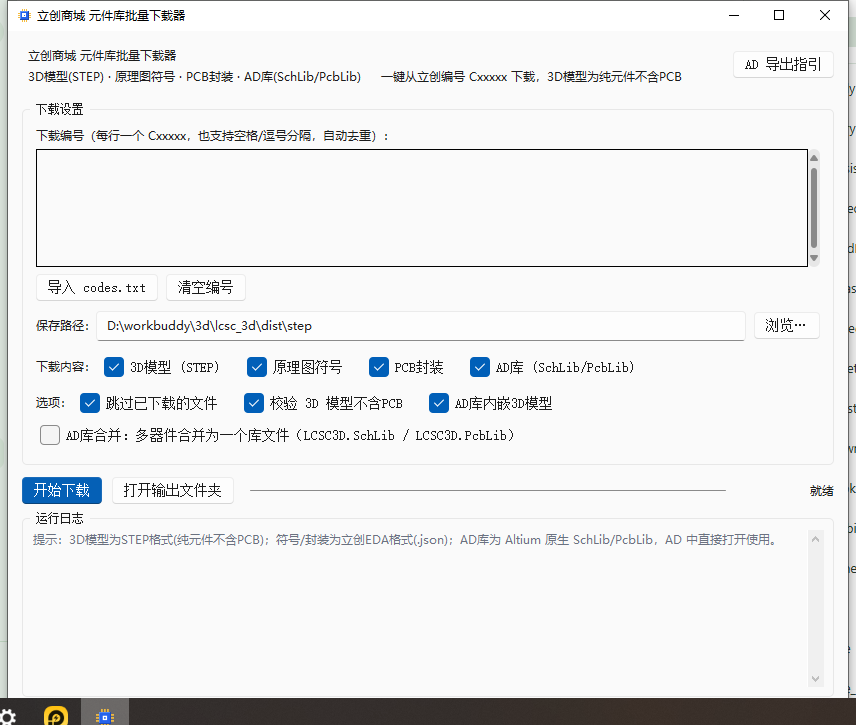
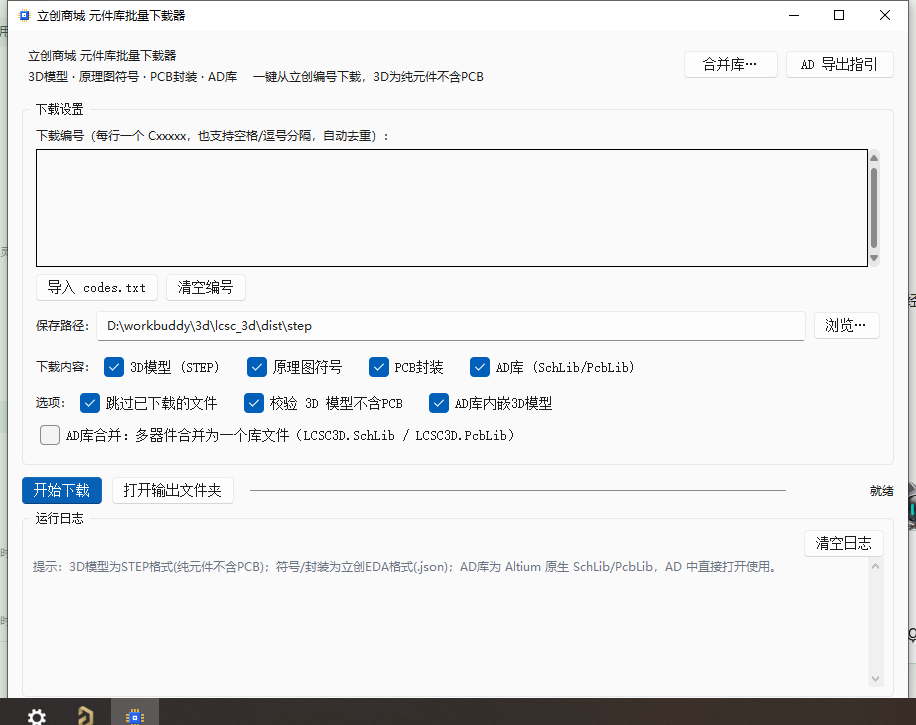
fix: 标题栏按钮被压缩 + 日志一键清空
- 标题区改 grid 布局(columnconfigure weight), 按钮列不再被副标题挤压
- 按钮文字精简(合并库…/AD 导出指引)并固定 width
- 窗口宽度 840->900, 副标题精简
- 新增「清空日志」按钮 + 每轮下载开始自动清空日志
- 冒烟测试 v8(日志清理) + 按钮完整性验证(多宽度), 打包版截图确认
- exe 洁净环境自测 7 项全 PASS

diff --git a/lcsc_3d_gui.py b/lcsc_3d_gui.py
@@ -432,7 +432,7 @@ class DownloaderApp:
     def _build(self):
         self.root.title(APP_TITLE)
         sw, sh = self.root.winfo_screenwidth(), self.root.winfo_screenheight()
-        w = min(840, sw - 40)
+        w = min(900, sw - 40)
         h = min(760, sh - 90)
         x = max(0, (sw - w) // 2)
         y = max(0, (sh - h) // 3)
@@ -451,13 +451,16 @@ class DownloaderApp:
         # ===== 标题区 =====
         header = ttk.Frame(self.root, padding=(20, 16, 14, 4))
         header.pack(fill="x")
+        header.columnconfigure(0, weight=1)   # 标题占剩余空间，按钮列不被压缩
         hleft = ttk.Frame(header)
-        hleft.pack(side="left", fill="x", expand=True)
+        hleft.grid(row=0, column=0, sticky="w")
         ttk.Label(hleft, text=APP_TITLE, style="Header.TLabel").pack(anchor="w")
-        ttk.Label(hleft, text="3D模型(STEP) · 原理图符号 · PCB封装 · AD库(SchLib/PcbLib)     一键从立创编号 Cxxxxx 下载，3D模型为纯元件不含PCB",
+        ttk.Label(hleft, text="3D模型 · 原理图符号 · PCB封装 · AD库    一键从立创编号下载，3D为纯元件不含PCB",
                   style="SubHeader.TLabel").pack(anchor="w", pady=(4, 2))
-        ttk.Button(header, text="AD 导出指引", command=self._show_ad_help).pack(side="right", anchor="ne", padx=(10, 0), pady=(4, 0))
-        ttk.Button(header, text="手动合并库…", command=self._show_merge_dialog).pack(side="right", anchor="ne", padx=(10, 0), pady=(4, 0))
+        ttk.Button(header, text="合并库…", width=10, command=self._show_merge_dialog).grid(
+            row=0, column=1, sticky="ne", padx=(10, 0), pady=(4, 0))
+        ttk.Button(header, text="AD 导出指引", width=12, command=self._show_ad_help).grid(
+            row=0, column=2, sticky="ne", padx=(8, 0), pady=(4, 0))
 
         # ===== 主体 =====
         body = ttk.Frame(self.root, padding=(14, 12, 14, 12))
@@ -536,11 +539,14 @@ class DownloaderApp:
         card2 = ttk.Labelframe(body, text=" 运行日志 ", padding=(10, 6, 10, 10))
         card2.grid(row=2, column=0, sticky="nsew")
         card2.columnconfigure(0, weight=1)
-        card2.rowconfigure(0, weight=1)
+        card2.rowconfigure(1, weight=1)
+        log_head = ttk.Frame(card2)
+        log_head.grid(row=0, column=0, sticky="e")
+        ttk.Button(log_head, text="清空日志", command=self._clear_log).pack(side="right")
         self.txt_log = scrolledtext.ScrolledText(card2, height=13, wrap="word", state="disabled",
                                                  relief="flat", bd=0, bg="white", fg=C_TEXT,
                                                  font=FONT)
-        self.txt_log.grid(row=0, column=0, sticky="nsew")
+        self.txt_log.grid(row=1, column=0, sticky="nsew")
         self.txt_log.tag_configure("ok", foreground=C_OK)
         self.txt_log.tag_configure("err", foreground=C_ERR)
         self.txt_log.tag_configure("warn", foreground=C_WARN)
@@ -552,6 +558,12 @@ class DownloaderApp:
                      "AD库为 Altium 原生 SchLib/PcbLib，AD 中直接打开使用。\n", "muted")
 
     # ---------- 交互 ----------
+    def _clear_log(self):
+        """清空运行日志（按钮或新一轮下载开始时调用）。"""
+        self.txt_log.config(state="normal")
+        self.txt_log.delete("1.0", "end")
+        self.txt_log.config(state="disabled")
+
     def _show_merge_dialog(self):
         if ad_export is None:
             messagebox.showerror("不可用", "内置转换模块不可用，无法使用库合并功能")
@@ -661,7 +673,8 @@ class DownloaderApp:
             return
         self._set_running(True)
         self.pbar["value"] = 0
-        self._append(f"\n====== 开始下载 {len(codes)} 个编号 -> {outdir} ======\n", "head")
+        self._clear_log()  # 每轮下载从干净日志开始
+        self._append(f"====== 开始下载 {len(codes)} 个编号 -> {outdir} ======\n", "head")
         threading.Thread(target=self._worker,
                          args=(codes, outdir, not self.v_skip.get(), opts, self.v_verify.get()),
                          daemon=True).start()

diff --git a/README.md b/README.md
@@ -21,6 +21,7 @@
 | 🛠 手动合并库 | 把已下载/已有的多个 `.SchLib`、多个 `.PcbLib` **手动合并为一个**（界面右上角「手动合并库…」）：自动去重、3D 模型随封装保留 |
 | 🛡 风控对抗 | 请求间隔控制 + 指数退避重试，被断连自动恢复；已下载文件自动跳过（断点续传） |
 | 🖥 免环境运行 | 单文件 exe，目标电脑**无需安装 Python** 及任何运行库 |
+| 🧹 日志管理 | 运行日志一键清空（每轮下载自动清空，不堆积） |
 | ⌨ 双形态 | 图形界面（GUI）+ 命令行（CLI），命令行版仅依赖标准库 |
 
 ## 🚀 快速开始
